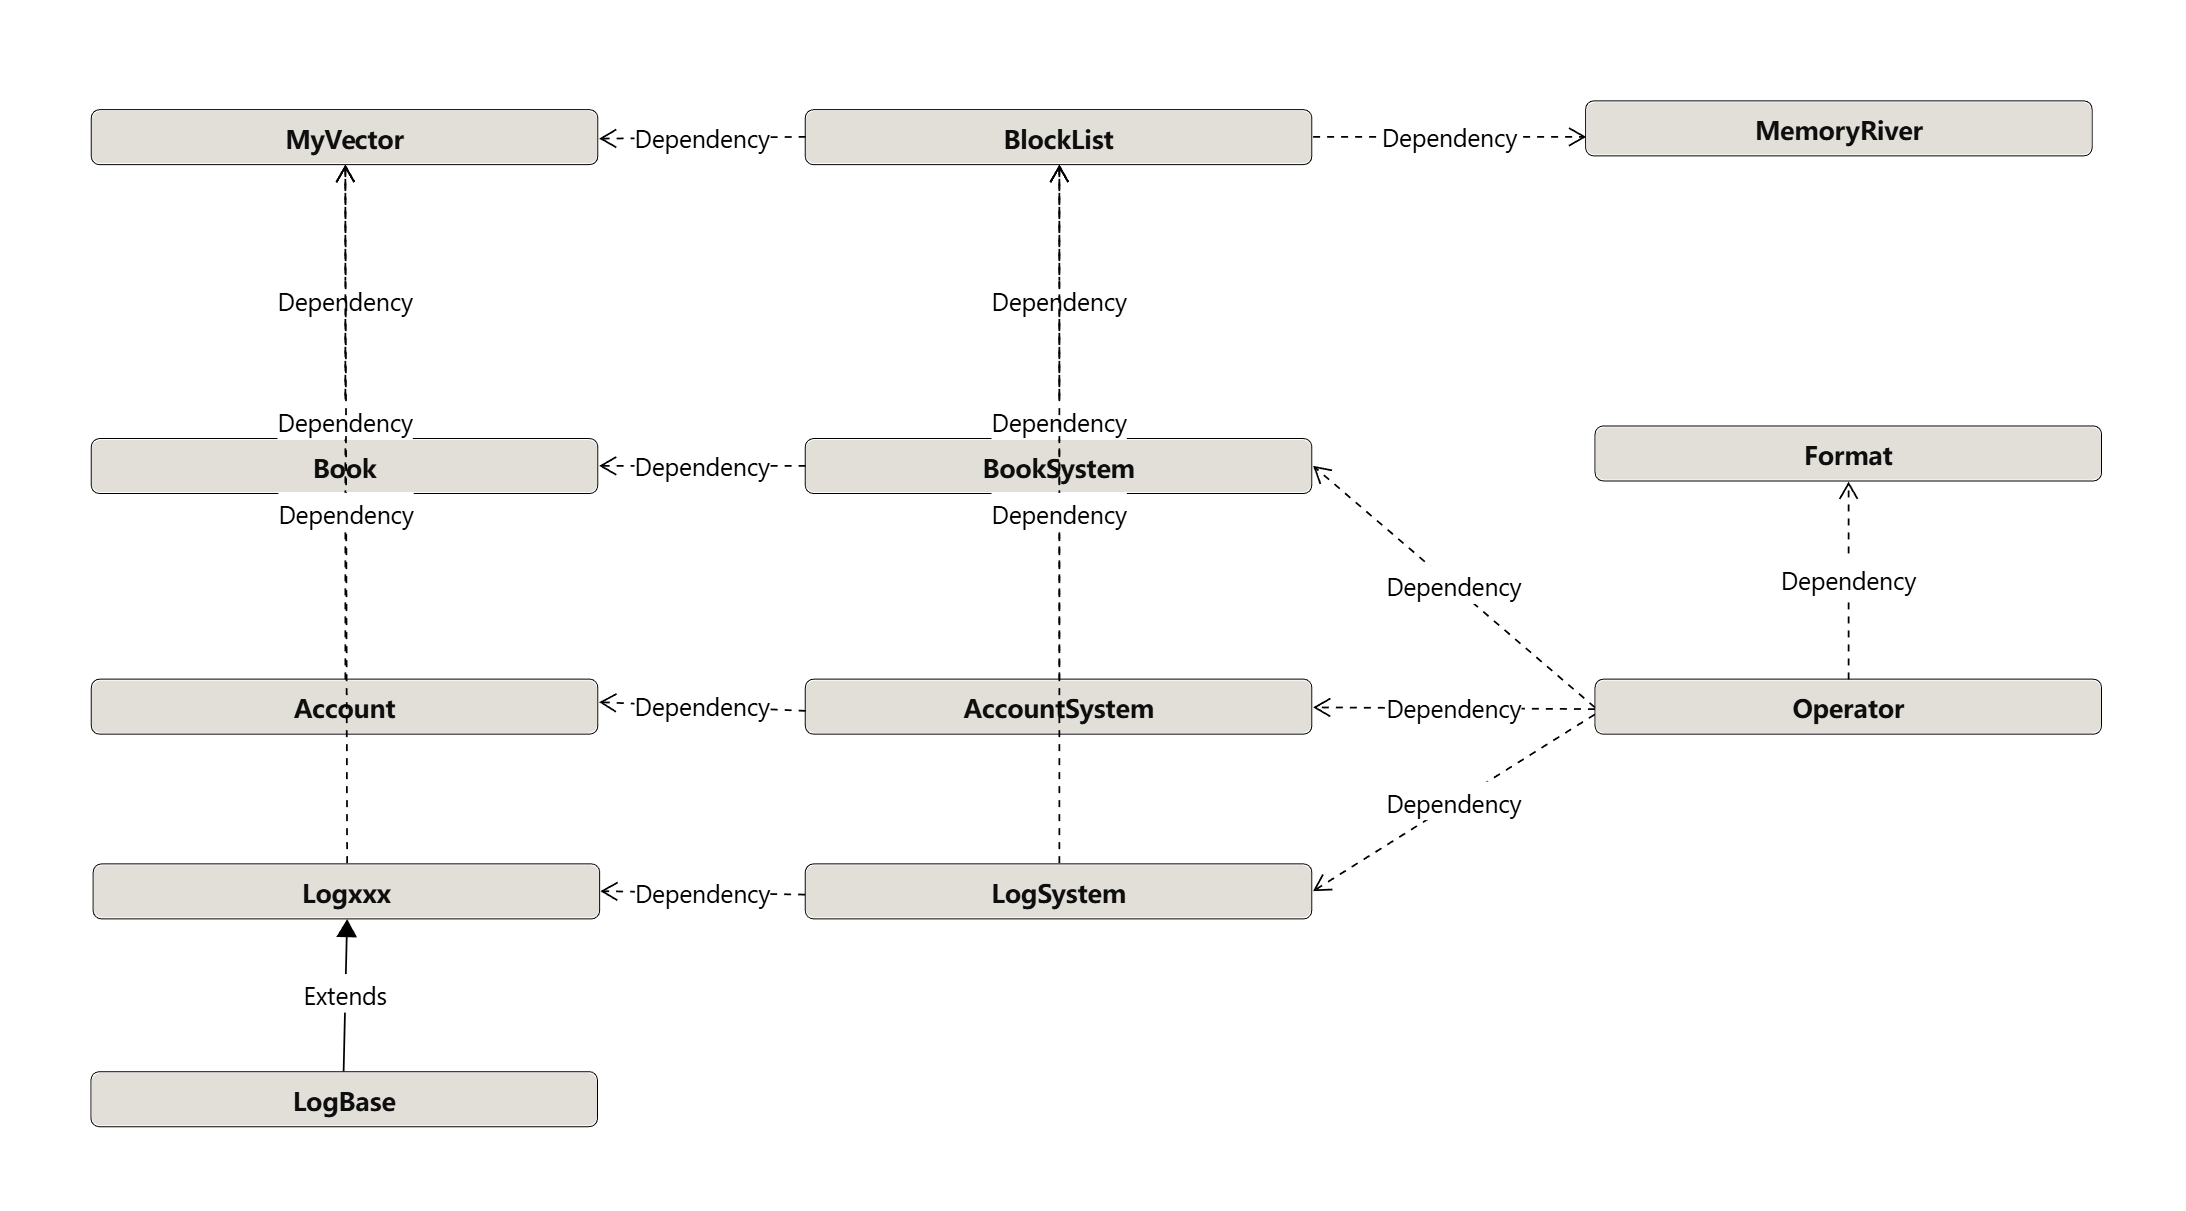
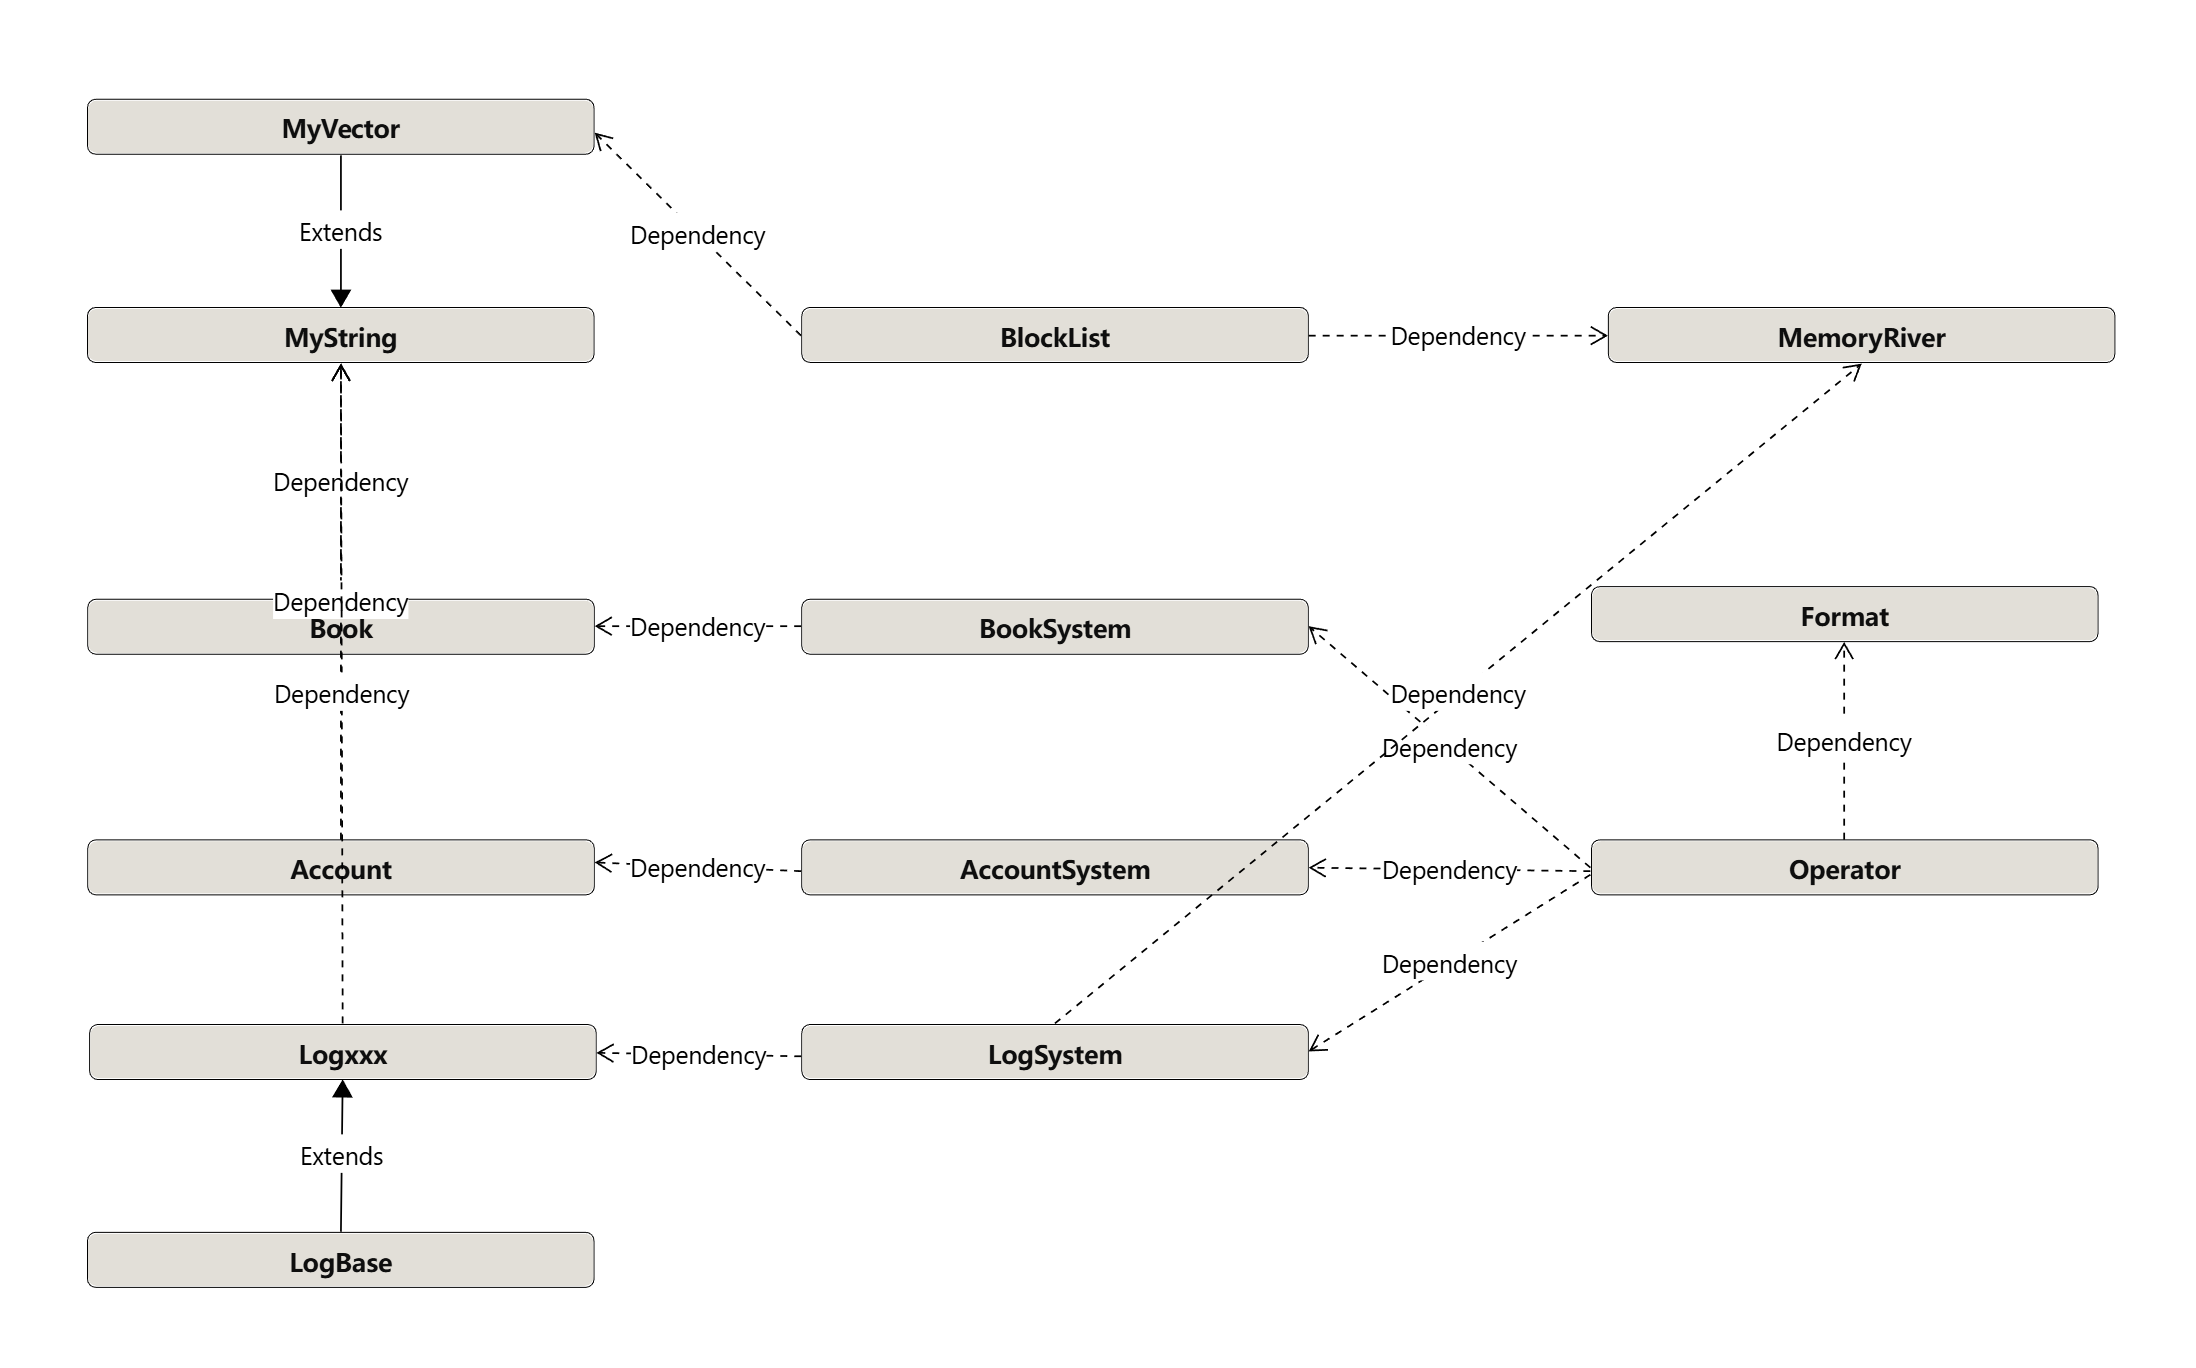
fix: fix uppercase in 总体设计文档, add MyString in BookStore-类图

diff --git a/doc/总体设计文档.md b/doc/总体设计文档.md
@@ -36,7 +36,7 @@ By Boju Zhang
 
 ```/src/``` 目录下存储了代码文件
 
-```/src/``` 下包含 ```account.hpp, book.hpp, log.hpp, format.hpp, operator.hpp, main.cpp```，分别代表账户系统，图书系统，日志系统，命令处理系统，操作执行系统，主程序。
+```/src/``` 下包含 ```Account.hpp, Book.hpp, Log.hpp, Format.hpp, Operator.hpp, main.cpp```，分别代表账户系统，图书系统，日志系统，命令处理系统，操作执行系统，主程序。
 
 也包含 ```MemoryRiver.hpp, BlockList.hpp```，前者提供了对单文件存储一个类型的信息进行操作的基础，后者实现了一个块状链表，用于查找。
 
@@ -72,16 +72,16 @@ By Boju Zhang
 
 ```MemoryRiver.hpp, BlockList.hpp```，前者实现了 ```MemorRiver``` 类，提供了单文件存储信息写入，更新，读取的操作；后者实现了 ```BlockList``` 类，利用块状链表实现键值对存储，并提供插入，删除，查找等操作。
 
-```MyVector.hpp```: 基于 ```std::array``` 实现了一个行为类似 ```std::vector``` 的空间恒定的容器。
+```MyVector.hpp```: 基于 ```std::array``` 实现了一个行为类似 ```std::vector``` 的空间恒定的容器。基于其实现了 ```MyString``` 类，最大长度固定的字符串。
 
-```account.hpp``` ：实现 ```Account``` 类，用于存储账户信息。实现 ```AccountSystem``` 类，用于执行有关账户的操作。
+```Account.hpp``` ：实现 ```Account``` 类，用于存储账户信息。实现 ```AccountSystem``` 类，用于执行有关账户的操作。
 
-```book.hpp```：实现 ```Book``` 类，用于存储图书信息。实现 ```BookSystem``` 类，用于执行有关图书的操作。
+```Book.hpp```：实现 ```Book``` 类，用于存储图书信息。实现 ```BookSystem``` 类，用于执行有关图书的操作。
 
-```log.hpp```：实现 ```LogBase``` 类，作为日志内容的基类。实现基于操作不同的 ```Logxxx``` 类，作为具体的日志内容。实现 ```LogSystem``` 类，用于执行查询日志，添加日志的操作。
+```Log.hpp```：实现 ```LogBase``` 类，作为日志内容的基类。实现基于操作不同的 ```Logxxx``` 类，作为具体的日志内容。实现 ```LogSystem``` 类，用于执行查询日志，添加日志的操作。
 
-```format.hpp```：实现 ```Format``` 类，提供对命令的解析。
+```Format.hpp```：实现 ```Format``` 类，提供对命令的解析。
 
-```operator.hpp```：实现```Operator``` 类，用于执行命令。
+```Operator.hpp```：实现```Operator``` 类，用于执行命令。
 
 ![类图](BookStore-类图.png)
